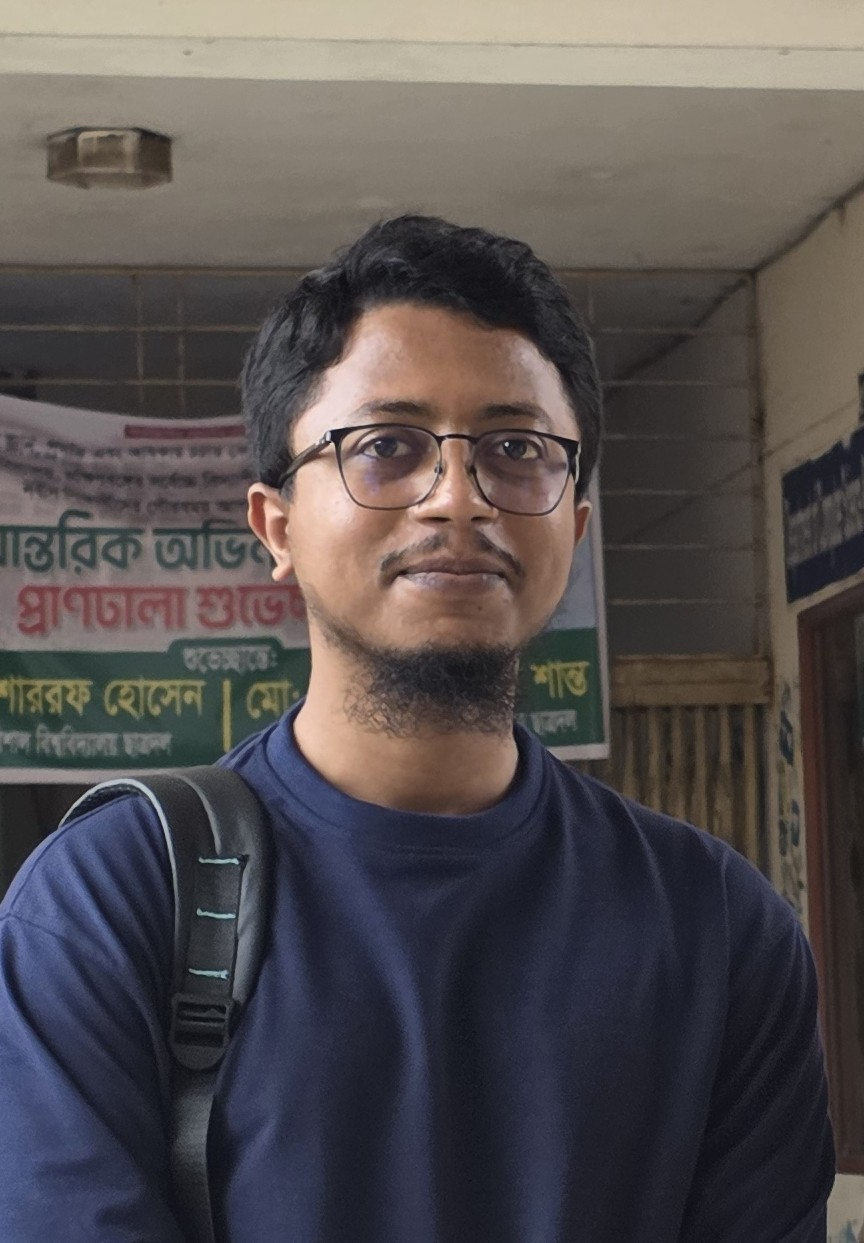
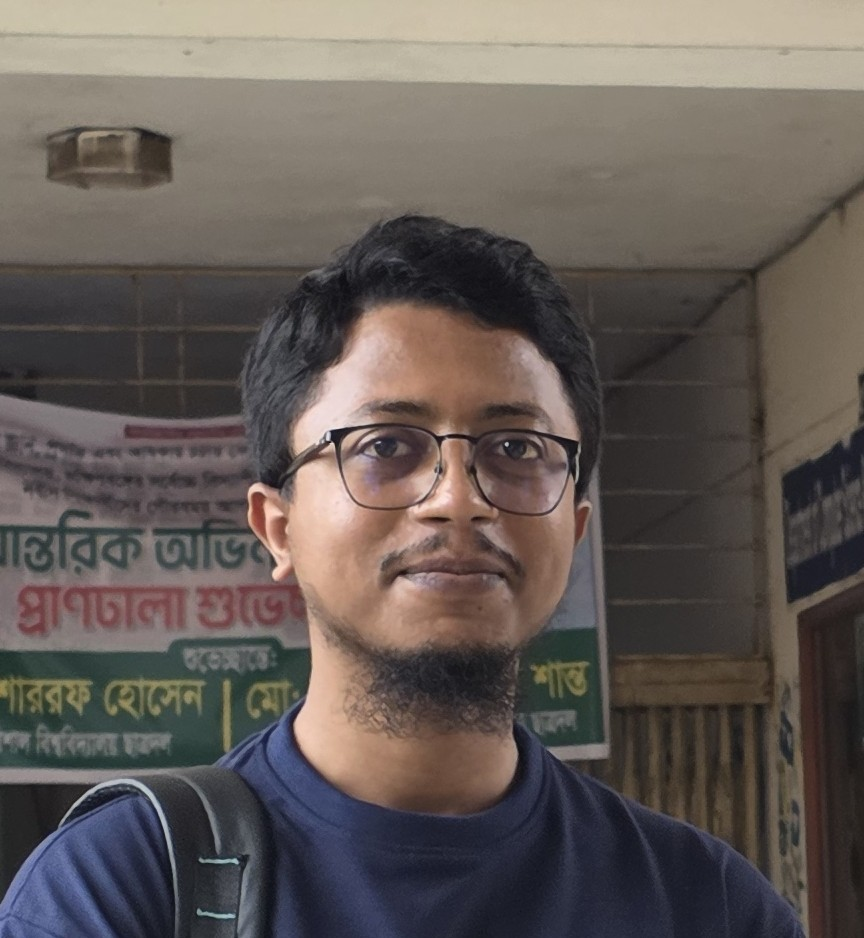
version 4

diff --git a/Frontend/src/components/public/ResearcherPortfolioHero.tsx b/Frontend/src/components/public/ResearcherPortfolioHero.tsx
@@ -129,7 +129,7 @@ export default function ResearcherPortfolioHero({ portfolio, media, articles }: 
       <div className="absolute -left-32 bottom-0 h-[440px] w-[440px] rounded-full bg-[#edf6ff]/80 blur-2xl" />
 
       <div className="relative mx-auto grid w-full max-w-[1740px] gap-4 px-3 py-4 sm:px-5 sm:py-5 lg:grid-cols-[72px_270px_minmax(0,1fr)_330px] lg:gap-5 lg:px-6 lg:py-7 2xl:grid-cols-[76px_300px_minmax(0,1fr)_360px]">
-        <aside className="order-1 min-w-0 rounded-[24px] border border-[#d7e7ee] bg-[#edf6ff]/90 p-2.5 shadow-[0_12px_35px_rgba(83,111,137,.08)] backdrop-blur-sm lg:row-span-2">
+        <aside className="relative z-40 order-1 min-w-0 overflow-visible rounded-[24px] border border-[#d7e7ee] bg-[#edf6ff]/90 p-2.5 shadow-[0_12px_35px_rgba(83,111,137,.08)] backdrop-blur-sm lg:row-span-2">
           <div className="flex h-full min-w-0 items-center gap-2 overflow-x-auto pb-1 lg:flex-col lg:justify-start lg:overflow-visible lg:pb-0">
             {socialLinks.map(({ label, href, icon: Icon }) => (
               <a
@@ -138,10 +138,10 @@ export default function ResearcherPortfolioHero({ portfolio, media, articles }: 
                 target="_blank"
                 rel="noreferrer"
                 aria-label={label}
-                className="group relative grid h-11 w-11 shrink-0 place-items-center rounded-full border border-[#cde3ea] bg-[#fffdfb] text-[#547a8b] shadow-sm transition hover:-translate-y-0.5 hover:border-[#a9d7df] hover:bg-[#dff7f6] hover:text-[#3f7081]"
+                className="group relative z-50 grid h-11 w-11 shrink-0 place-items-center rounded-full border border-[#cde3ea] bg-[#fffdfb] text-[#547a8b] shadow-sm transition hover:z-[200] hover:-translate-y-0.5 hover:border-[#a9d7df] hover:bg-[#dff7f6] hover:text-[#3f7081]"
               >
                 <Icon className="h-[18px] w-[18px]" />
-                <span className="pointer-events-none absolute left-[52px] z-[100] hidden whitespace-nowrap rounded-lg bg-[#dff7f6] px-2.5 py-1.5 text-[11px] font-semibold text-[#527f8f] shadow-xl border border-[#cde3ea] group-hover:lg:block">{label}</span>
+                <span className="pointer-events-none absolute left-[52px] top-1/2 z-[300] hidden -translate-y-1/2 whitespace-nowrap rounded-lg bg-[#dff7f6] px-2.5 py-1.5 text-[11px] font-semibold text-[#527f8f] shadow-xl border border-[#cde3ea] group-hover:lg:block">{label}</span>
               </a>
             ))}
           </div>

diff --git a/Frontend/src/components/public/SpecialThanksDevelopers.tsx b/Frontend/src/components/public/SpecialThanksDevelopers.tsx
@@ -73,7 +73,7 @@ function DeveloperPortrait({ developer }: { developer: DeveloperCredit }) {
     <img
       src={developer.image}
       alt={developer.name}
-      className="h-64 w-full bg-[#edf6ff] object-contain object-center sm:h-72"
+      className="h-72 w-full bg-[#edf6ff] object-cover object-center sm:h-80"
       onError={() => setFailed(true)}
     />
   );
